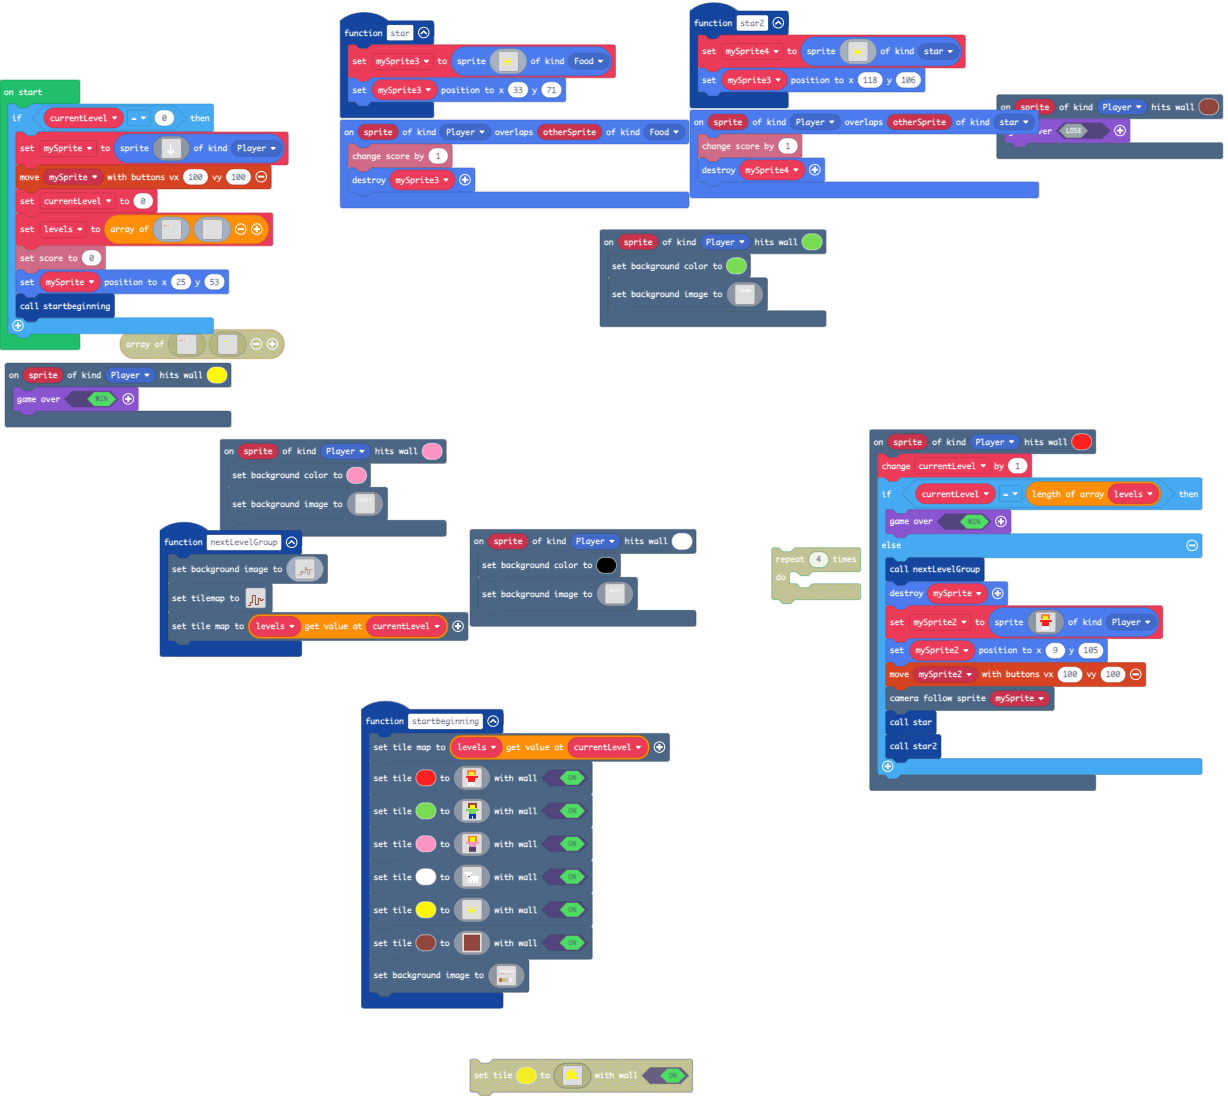
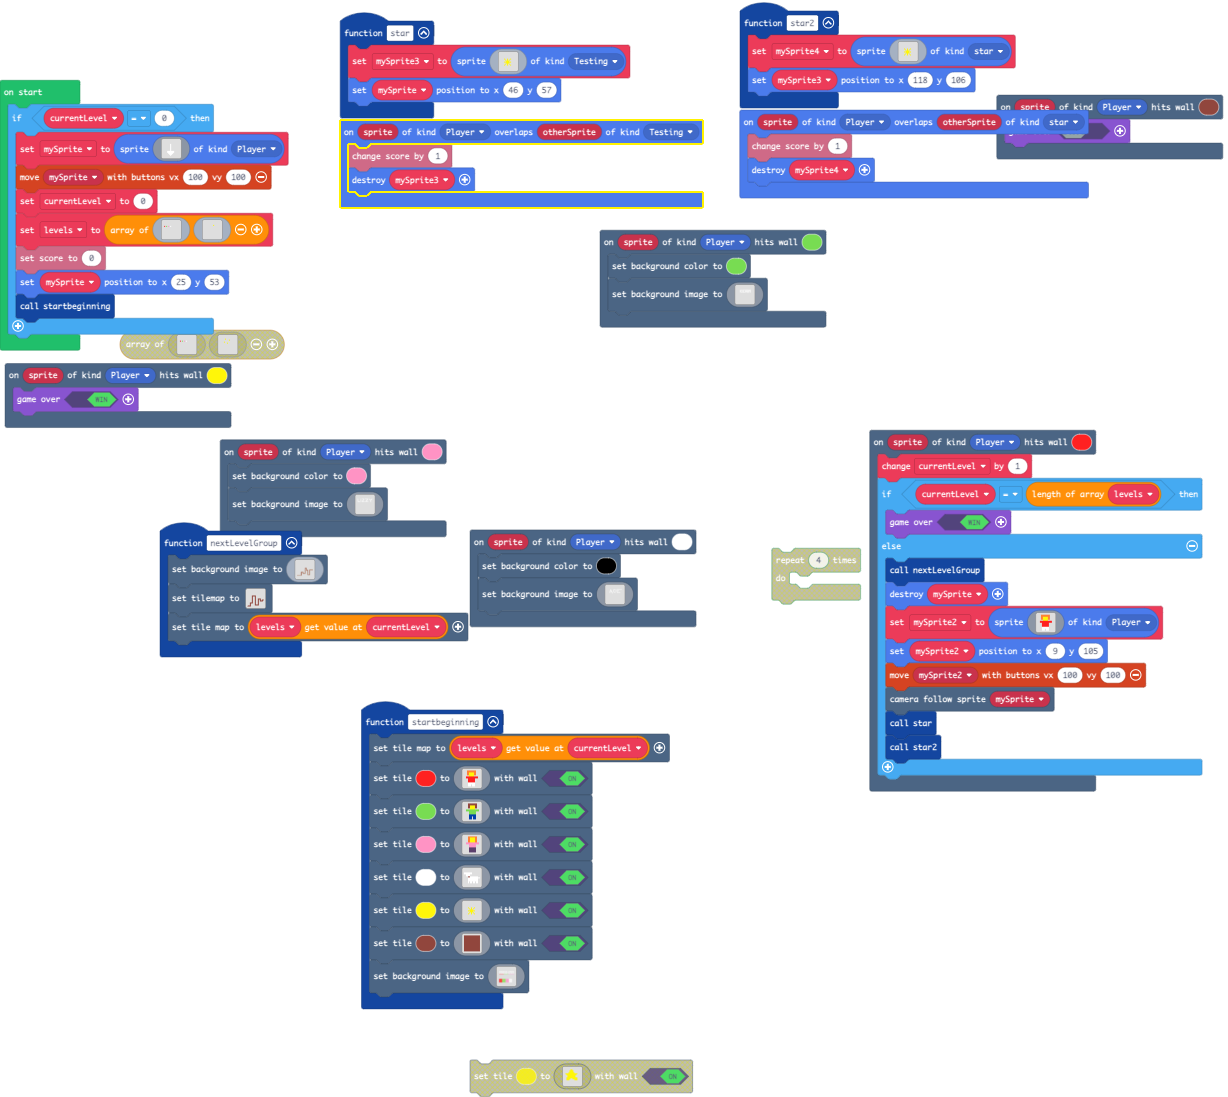
Update main.blocks, main.ts

diff --git a/main.ts b/main.ts
@@ -1,5 +1,6 @@
 namespace SpriteKind {
     export const star = SpriteKind.create()
+    export const Testing = SpriteKind.create()
 }
 function nextLevelGroup () {
     scene.setBackgroundImage(img`
@@ -127,6 +128,10 @@ function nextLevelGroup () {
     tiles.setTilemap(tilemap`level6`)
     scene.setTileMap(levels[currentLevel])
 }
+sprites.onOverlap(SpriteKind.Player, SpriteKind.Testing, function (sprite, otherSprite) {
+    info.changeScoreBy(1)
+    mySprite3.destroy()
+})
 scene.onHitTile(SpriteKind.Player, 7, function (sprite) {
     scene.setBackgroundColor(7)
     scene.setBackgroundImage(img`
@@ -766,10 +771,6 @@ scene.onHitTile(SpriteKind.Player, 1, function (sprite) {
         ................................................................................................................................................................
         `)
 })
-sprites.onOverlap(SpriteKind.Player, SpriteKind.Food, function (sprite, otherSprite) {
-    info.changeScoreBy(1)
-    mySprite3.destroy()
-})
 function star () {
     mySprite3 = sprites.create(img`
         . . . . . . . . . . . . . . . . 
@@ -788,8 +789,8 @@ function star () {
         . . . . . . . . . . . . . . . . 
         . . . . . . . . . . . . . . . . 
         . . . . . . . . . . . . . . . . 
-        `, SpriteKind.Food)
-    mySprite3.setPosition(33, 71)
+        `, SpriteKind.Testing)
+    mySprite.setPosition(46, 57)
 }
 scene.onHitTile(SpriteKind.Player, 2, function (sprite) {
     currentLevel += 1
@@ -824,8 +825,8 @@ scene.onHitTile(SpriteKind.Player, 2, function (sprite) {
     }
 })
 let mySprite2: Sprite = null
-let mySprite3: Sprite = null
 let mySprite4: Sprite = null
+let mySprite3: Sprite = null
 let levels: Image[] = []
 let mySprite: Sprite = null
 let currentLevel = 0
